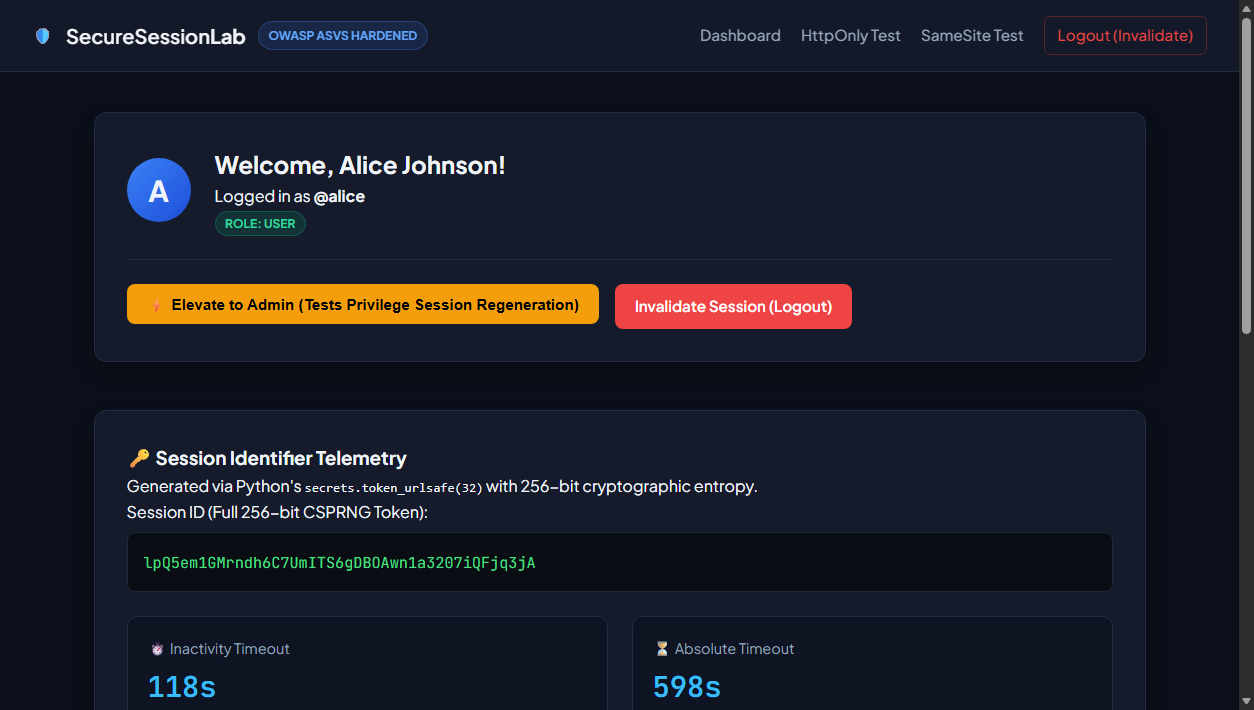
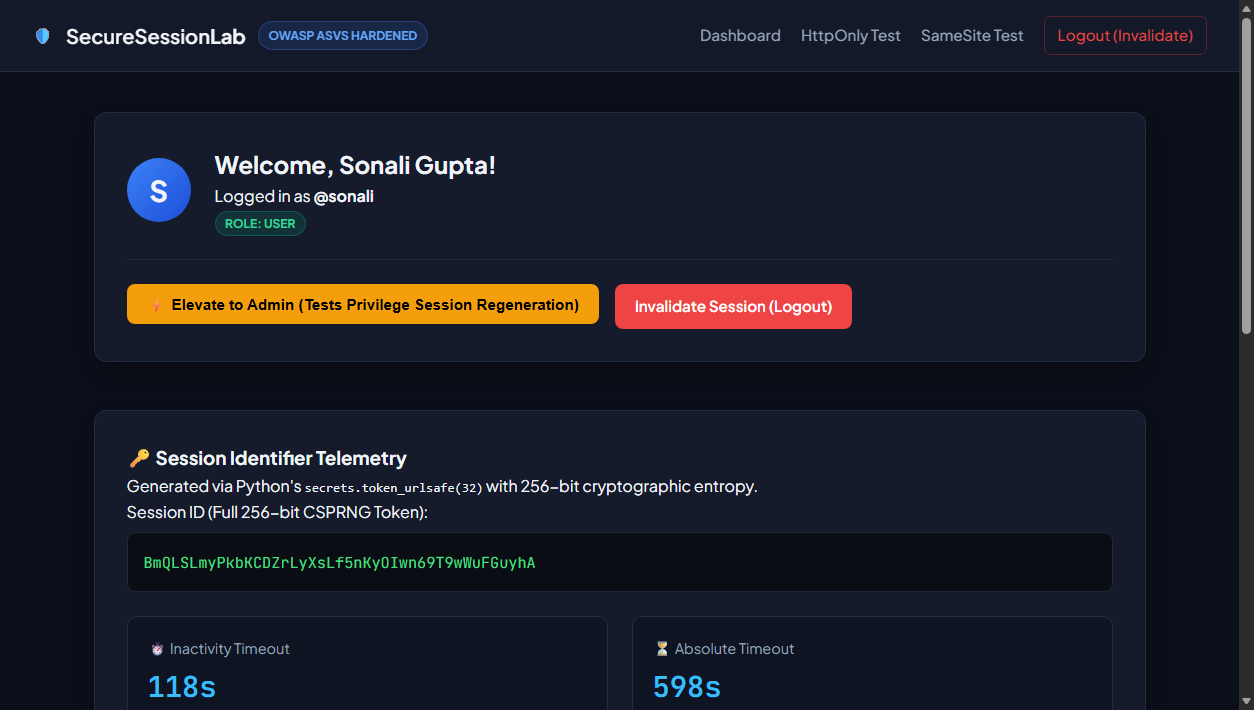
feat: complete secure session management suite with personalized verification and screenshots

Changed region(s): [[0.0933, 0.7746, 0.4354, 0.8056], [0.2488, 0.2169, 0.4043, 0.2789], [0.1244, 0.2479, 0.1555, 0.2789]]

diff --git a/app/templates/login.html b/app/templates/login.html
@@ -24,7 +24,7 @@
         <form action="{{ url_for('main.login') }}" method="POST" class="auth-form">
             <div class="form-group">
                 <label for="username">Username</label>
-                <input type="text" id="username" name="username" class="form-input" placeholder="e.g. alice or admin" required autocomplete="username">
+                <input type="text" id="username" name="username" class="form-input" placeholder="e.g. sonali or admin" required autocomplete="username">
             </div>
 
             <div class="form-group">
@@ -48,7 +48,7 @@
                     <tr><th>User</th><th>Role</th><th>Password</th></tr>
                 </thead>
                 <tbody>
-                    <tr><td><code>alice</code></td><td><span class="badge badge-user">Normal User</span></td><td><code>AliceUser@2026!</code></td></tr>
+                    <tr><td><code>sonali</code></td><td><span class="badge badge-user">Normal User</span></td><td><code>SonaliSecure@2026!</code></td></tr>
                     <tr><td><code>bob</code></td><td><span class="badge badge-user">Normal User</span></td><td><code>BobUserPass#456</code></td></tr>
                     <tr><td><code>admin</code></td><td><span class="badge badge-admin">Admin</span></td><td><code>SuperAdminKey$999</code></td></tr>
                 </tbody>

diff --git a/scripts/generate_security_report.py b/scripts/generate_security_report.py
@@ -105,11 +105,11 @@ def run_automated_audit():
         # TC-01: Secure Session Creation (Task 1)
         # -------------------------------------------------------------
         s = requests.Session()
-        res_login = s.post(f"{base_https}/login", data={'username': 'alice', 'password': 'AliceUser@2026!'},
+        res_login = s.post(f"{base_https}/login", data={'username': 'sonali', 'password': 'SonaliSecure@2026!'},
                            verify=False, allow_redirects=False)
         cookie = res_login.cookies.get('secure_session_token')
         res_dash = s.get(f"{base_https}/dashboard", verify=False)
-        if res_login.status_code == 302 and cookie and res_dash.status_code == 200 and 'Alice Johnson' in res_dash.text:
+        if res_login.status_code == 302 and cookie and res_dash.status_code == 200 and 'Sonali Gupta' in res_dash.text:
             record_result("TC-01", "Secure Session Creation & Dashboard Authentication",
                           "HTTP 302 redirect, session cookie set, HTTP 200 on dashboard",
                           f"Status: {res_login.status_code}, Cookie: {cookie[:10]}..., Dash Status: {res_dash.status_code}", "PASS")
@@ -139,7 +139,7 @@ def run_automated_audit():
         s_regen = requests.Session()
         res_pre = s_regen.get(f"{base_https}/login", verify=False)
         pre_sid = res_pre.cookies.get('secure_session_token')
-        res_auth = s_regen.post(f"{base_https}/login", data={'username': 'alice', 'password': 'AliceUser@2026!'},
+        res_auth = s_regen.post(f"{base_https}/login", data={'username': 'sonali', 'password': 'SonaliSecure@2026!'},
                                 verify=False, allow_redirects=False)
         post_sid = res_auth.cookies.get('secure_session_token')
         
@@ -160,7 +160,7 @@ def run_automated_audit():
         # TC-04A: Session Inactivity Timeout (Task 4)
         # -------------------------------------------------------------
         s_inact = requests.Session()
-        s_inact.post(f"{base_https}/login", data={'username': 'alice', 'password': 'AliceUser@2026!'},
+        s_inact.post(f"{base_https}/login", data={'username': 'sonali', 'password': 'SonaliSecure@2026!'},
                      verify=False, allow_redirects=False)
         # Verify active initially
         res_init = s_inact.get(f"{base_https}/dashboard", verify=False, allow_redirects=False)
@@ -200,7 +200,7 @@ def run_automated_audit():
         # TC-05: Session Invalidation After Logout (Task 5)
         # -------------------------------------------------------------
         s_logout = requests.Session()
-        s_logout.post(f"{base_https}/login", data={'username': 'alice', 'password': 'AliceUser@2026!'},
+        s_logout.post(f"{base_https}/login", data={'username': 'sonali', 'password': 'SonaliSecure@2026!'},
                       verify=False, allow_redirects=False)
         logged_sid = s_logout.cookies.get('secure_session_token')
         res_logout = s_logout.get(f"{base_https}/logout", verify=False, allow_redirects=False)
@@ -223,7 +223,7 @@ def run_automated_audit():
         # -------------------------------------------------------------
         # TC-06: Secure Cookie Attribute Configuration (Task 6)
         # -------------------------------------------------------------
-        res_sec = requests.post(f"{base_https}/login", data={'username': 'alice', 'password': 'AliceUser@2026!'},
+        res_sec = requests.post(f"{base_https}/login", data={'username': 'sonali', 'password': 'SonaliSecure@2026!'},
                                 verify=False, allow_redirects=False)
         raw_cookie_header = res_sec.headers.get('Set-Cookie', '')
         has_secure = 'secure' in [p.strip().lower() for p in raw_cookie_header.split(';')]
@@ -269,7 +269,7 @@ def run_automated_audit():
         victim_session = requests.Session()
         victim_session.cookies.set('secure_session_token', attacker_sid)
         # Victim authenticates
-        res_vic_login = victim_session.post(f"{base_https}/login", data={'username': 'alice', 'password': 'AliceUser@2026!'},
+        res_vic_login = victim_session.post(f"{base_https}/login", data={'username': 'sonali', 'password': 'SonaliSecure@2026!'},
                                             verify=False, allow_redirects=False)
         vic_new_sid = res_vic_login.cookies.get('secure_session_token')
         
@@ -290,7 +290,7 @@ def run_automated_audit():
         # TC-10: Prevent Session IDs in URLs (Task 10)
         # -------------------------------------------------------------
         s_url = requests.Session()
-        res_url_login = s_url.post(f"{base_https}/login", data={'username': 'alice', 'password': 'AliceUser@2026!'},
+        res_url_login = s_url.post(f"{base_https}/login", data={'username': 'sonali', 'password': 'SonaliSecure@2026!'},
                                    verify=False, allow_redirects=True)
         final_url = res_url_login.url
         has_url_token = any(param in final_url for param in ['session_id', 'token', 'sid'])
@@ -307,7 +307,7 @@ def run_automated_audit():
         # -------------------------------------------------------------
         s_flow = requests.Session()
         # 1. Login
-        f_login = s_flow.post(f"{base_https}/login", data={'username': 'alice', 'password': 'AliceUser@2026!'},
+        f_login = s_flow.post(f"{base_https}/login", data={'username': 'sonali', 'password': 'SonaliSecure@2026!'},
                               verify=False, allow_redirects=True)
         # 2. Access protected area
         f_dash = s_flow.get(f"{base_https}/dashboard", verify=False)
@@ -339,7 +339,7 @@ def run_automated_audit():
         # Legitimate client
         legit_session = requests.Session()
         legit_session.headers.update({'User-Agent': 'Mozilla/5.0 (Windows NT 10.0; Win64; x64)'})
-        legit_session.post(f"{base_https}/login", data={'username': 'alice', 'password': 'AliceUser@2026!'},
+        legit_session.post(f"{base_https}/login", data={'username': 'sonali', 'password': 'SonaliSecure@2026!'},
                            verify=False, allow_redirects=False)
         valid_sid = legit_session.cookies.get('secure_session_token')
         
@@ -365,7 +365,7 @@ def run_automated_audit():
         # -------------------------------------------------------------
         # Normal user alice accesses admin -> 403 Forbidden
         s_rbac = requests.Session()
-        s_rbac.post(f"{base_https}/login", data={'username': 'alice', 'password': 'AliceUser@2026!'},
+        s_rbac.post(f"{base_https}/login", data={'username': 'sonali', 'password': 'SonaliSecure@2026!'},
                     verify=False, allow_redirects=True)
         res_rbac_denied = s_rbac.get(f"{base_https}/admin", verify=False)
         old_rbac_sid = s_rbac.cookies.get('secure_session_token')

diff --git a/tests/test_all_security_tasks.py b/tests/test_all_security_tasks.py
@@ -12,7 +12,7 @@ def test_task01_secure_session_creation(client):
     assert res_get.status_code == 200
     
     # POST valid login credentials for alice
-    res_post = client.post('/login', data={'username': 'alice', 'password': 'AliceUser@2026!'}, follow_redirects=False)
+    res_post = client.post('/login', data={'username': 'sonali', 'password': 'SonaliSecure@2026!'}, follow_redirects=False)
     assert res_post.status_code == 302
     assert res_post.headers['Location'].endswith('/dashboard')
     
@@ -23,7 +23,7 @@ def test_task01_secure_session_creation(client):
     # Access dashboard with session
     res_dash = client.get('/dashboard')
     assert res_dash.status_code == 200
-    assert b'Alice Johnson' in res_dash.data
+    assert b'Sonali Gupta' in res_dash.data
     assert b'Role: USER' in res_dash.data
 
 # --- Task 2: Unpredictable Session Identifiers ---
@@ -59,7 +59,7 @@ def test_task03_session_id_regeneration(client, app):
     assert pre_cookie is not None
     
     # Login as alice
-    res_login = client.post('/login', data={'username': 'alice', 'password': 'AliceUser@2026!'}, follow_redirects=False)
+    res_login = client.post('/login', data={'username': 'sonali', 'password': 'SonaliSecure@2026!'}, follow_redirects=False)
     post_cookie = None
     for c in res_login.headers.getlist('Set-Cookie'):
         if 'secure_session_token=' in c:
@@ -80,7 +80,7 @@ def test_task03_session_id_regeneration(client, app):
 def test_task04_session_expiration_timeout():
     # Test inactivity timeout (configured to 1s for fast automated test)
     quick_store = SessionStore(inactivity_timeout=1, absolute_timeout=10)
-    sid = quick_store.create_session({'username': 'alice', 'role': 'user'})
+    sid = quick_store.create_session({'username': 'sonali', 'role': 'user'})
     
     # Immediate check -> ACTIVE
     session, status = quick_store.get_session(sid)
@@ -95,7 +95,7 @@ def test_task04_session_expiration_timeout():
     
     # Test absolute timeout (configured to 2s, but continuous activity)
     abs_store = SessionStore(inactivity_timeout=5, absolute_timeout=2)
-    sid_abs = abs_store.create_session({'username': 'alice', 'role': 'user'})
+    sid_abs = abs_store.create_session({'username': 'sonali', 'role': 'user'})
     
     # Repeated access within inactivity limit
     time.sleep(0.8)
@@ -110,7 +110,7 @@ def test_task04_session_expiration_timeout():
 # --- Task 5: Session Invalidation After Logout ---
 def test_task05_session_invalidation_after_logout(client, app):
     # Login
-    res_login = client.post('/login', data={'username': 'alice', 'password': 'AliceUser@2026!'}, follow_redirects=False)
+    res_login = client.post('/login', data={'username': 'sonali', 'password': 'SonaliSecure@2026!'}, follow_redirects=False)
     session_cookie = None
     for c in res_login.headers.getlist('Set-Cookie'):
         if 'secure_session_token=' in c:
@@ -142,7 +142,7 @@ def test_task05_session_invalidation_after_logout(client, app):
 
 # --- Task 6: Secure Cookie Configuration ---
 def test_task06_secure_cookie_configuration(client):
-    res = client.post('/login', data={'username': 'alice', 'password': 'AliceUser@2026!'}, follow_redirects=False)
+    res = client.post('/login', data={'username': 'sonali', 'password': 'SonaliSecure@2026!'}, follow_redirects=False)
     cookie_headers = res.headers.getlist('Set-Cookie')
     
     secure_found = False
@@ -156,7 +156,7 @@ def test_task06_secure_cookie_configuration(client):
 
 # --- Task 7: HttpOnly Cookie Configuration ---
 def test_task07_httponly_cookie_configuration(client):
-    res = client.post('/login', data={'username': 'alice', 'password': 'AliceUser@2026!'}, follow_redirects=False)
+    res = client.post('/login', data={'username': 'sonali', 'password': 'SonaliSecure@2026!'}, follow_redirects=False)
     cookie_headers = res.headers.getlist('Set-Cookie')
     
     httponly_found = False
@@ -170,7 +170,7 @@ def test_task07_httponly_cookie_configuration(client):
 
 # --- Task 8: SameSite Cookie Policy ---
 def test_task08_samesite_cookie_policy(client):
-    res = client.post('/login', data={'username': 'alice', 'password': 'AliceUser@2026!'}, follow_redirects=False)
+    res = client.post('/login', data={'username': 'sonali', 'password': 'SonaliSecure@2026!'}, follow_redirects=False)
     cookie_headers = res.headers.getlist('Set-Cookie')
     
     samesite_val = None
@@ -194,7 +194,7 @@ def test_task09_session_fixation_prevention(client, app):
     client.set_cookie('secure_session_token', attacker_fixed_sid)
     
     # Victim logs in using the session
-    res_login = client.post('/login', data={'username': 'alice', 'password': 'AliceUser@2026!'}, follow_redirects=False)
+    res_login = client.post('/login', data={'username': 'sonali', 'password': 'SonaliSecure@2026!'}, follow_redirects=False)
     
     victim_sid = None
     for c in res_login.headers.getlist('Set-Cookie'):
@@ -214,7 +214,7 @@ def test_task09_session_fixation_prevention(client, app):
 # --- Task 10: Prevent Session IDs in URLs ---
 def test_task10_prevent_session_ids_in_urls(client):
     # Login
-    res = client.post('/login', data={'username': 'alice', 'password': 'AliceUser@2026!'}, follow_redirects=True)
+    res = client.post('/login', data={'username': 'sonali', 'password': 'SonaliSecure@2026!'}, follow_redirects=True)
     
     # Check current redirected URL: must NOT contain session ID parameters
     assert 'session_id' not in res.request.url
@@ -231,7 +231,7 @@ def test_task13_session_hijacking_simulation(client, app):
     # Valid user logs in with legitimate User-Agent
     res_login = client.post(
         '/login',
-        data={'username': 'alice', 'password': 'AliceUser@2026!'},
+        data={'username': 'sonali', 'password': 'SonaliSecure@2026!'},
         headers={'User-Agent': 'LegitimateBrowser/1.0 (Windows NT 10.0)'},
         follow_redirects=False
     )
@@ -255,7 +255,7 @@ def test_task13_session_hijacking_simulation(client, app):
 # --- Task 14: Role-Based Session Management & Privilege Regeneration ---
 def test_task14_role_based_session_management(client, app):
     # 1. Normal user alice logs in
-    client.post('/login', data={'username': 'alice', 'password': 'AliceUser@2026!'}, follow_redirects=True)
+    client.post('/login', data={'username': 'sonali', 'password': 'SonaliSecure@2026!'}, follow_redirects=True)
     
     # Alice can access /dashboard
     res_dash = client.get('/dashboard')

diff --git a/app/config.py b/app/config.py
@@ -18,13 +18,13 @@ class Config:
     # 10 minutes absolute lifetime from session creation
     SESSION_ABSOLUTE_TIMEOUT = int(os.environ.get('SESSION_ABSOLUTE_TIMEOUT', 600))
     
-    # Demo and evaluation user accounts with argon2 / scrypt / pbkdf2 werkzeug hashes
+    # Demo and evaluation user accounts with argon2 / pbkdf2 werkzeug hashes
     USERS = {
-        'alice': {
-            'username': 'alice',
-            'password_hash': generate_password_hash('AliceUser@2026!'),
+        'sonali': {
+            'username': 'sonali',
+            'password_hash': generate_password_hash('SonaliSecure@2026!'),
             'role': 'user',
-            'full_name': 'Alice Johnson'
+            'full_name': 'Sonali Gupta'
         },
         'bob': {
             'username': 'bob',
@@ -34,7 +34,7 @@ class Config:
         },
         'admin': {
             'username': 'admin',
-            'password_hash': generate_password_hash('SuperAdminKey'),
+            'password_hash': generate_password_hash('SuperAdminKey$999'),
             'role': 'admin',
             'full_name': 'System Administrator'
         }

diff --git a/scripts/capture_screenshots.py b/scripts/capture_screenshots.py
@@ -74,11 +74,11 @@ def capture_all():
         driver.save_screenshot(os.path.join(screenshots_dir, '01_login_page.png'))
 
         # 2. Perform Login as Alice
-        print("Logging in as alice...")
+        print("Logging in as sonali...")
         user_input = driver.find_element(By.ID, 'username')
         pass_input = driver.find_element(By.ID, 'password')
-        user_input.send_keys('alice')
-        pass_input.send_keys('AliceUser@2026!')
+        user_input.send_keys('sonali')
+        pass_input.send_keys('SonaliSecure@2026!')
         driver.find_element(By.CSS_SELECTOR, 'button[type="submit"]').click()
         time.sleep(1.5)
 
